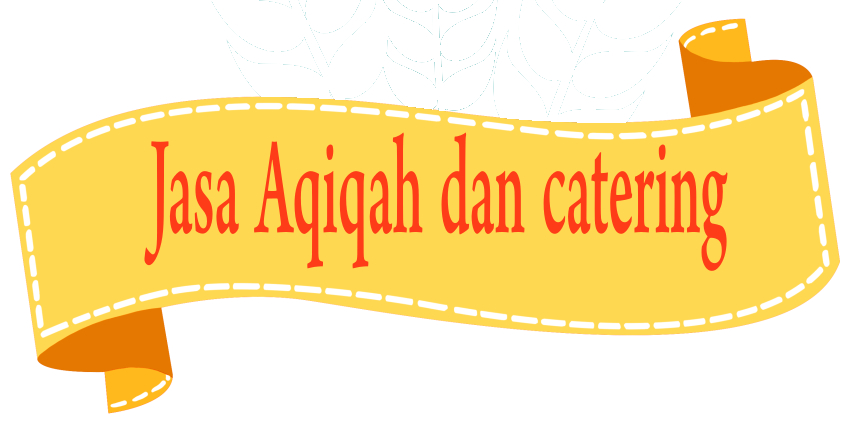
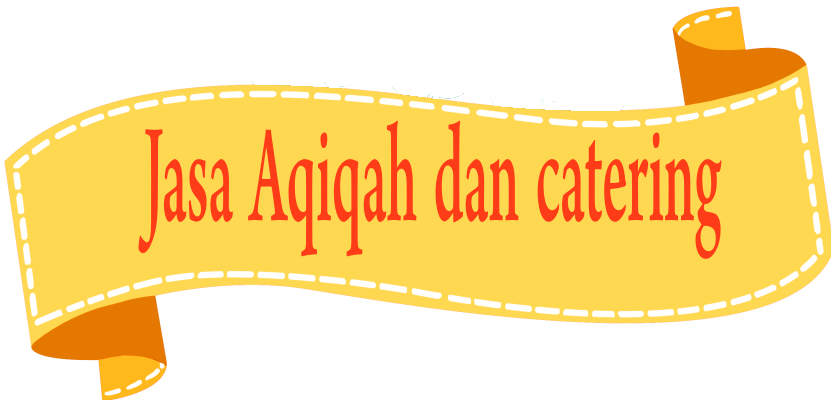
'ubah'

Changed region(s): [[0.0, 0.0, 1.0, 1.0], [0.361, 0.33, 0.3911, 0.36]]

diff --git a/index.html b/index.html
@@ -52,7 +52,7 @@
 <!-- isi -->
 <div class="container-fluid text-light satu">
   <!-- judul -->
-  <div class="container-fluid text-center w-50">
+  <div class="container-fluid text-center w-75">
     <img src="judul.png" alt="Jasa Aqiah dan Catering" class="mw-100"/>
   </div>
   <!-- ahir judul -->
